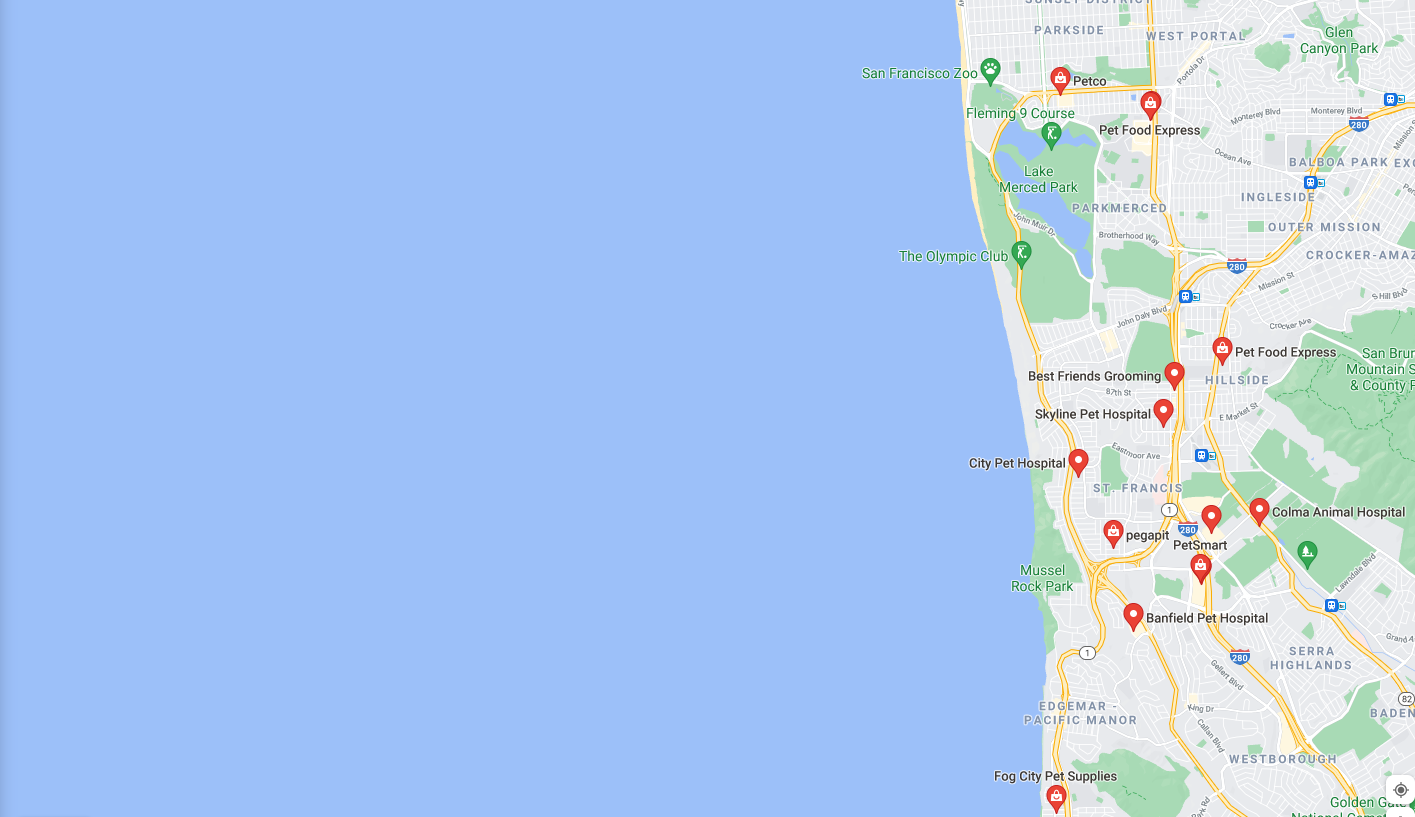
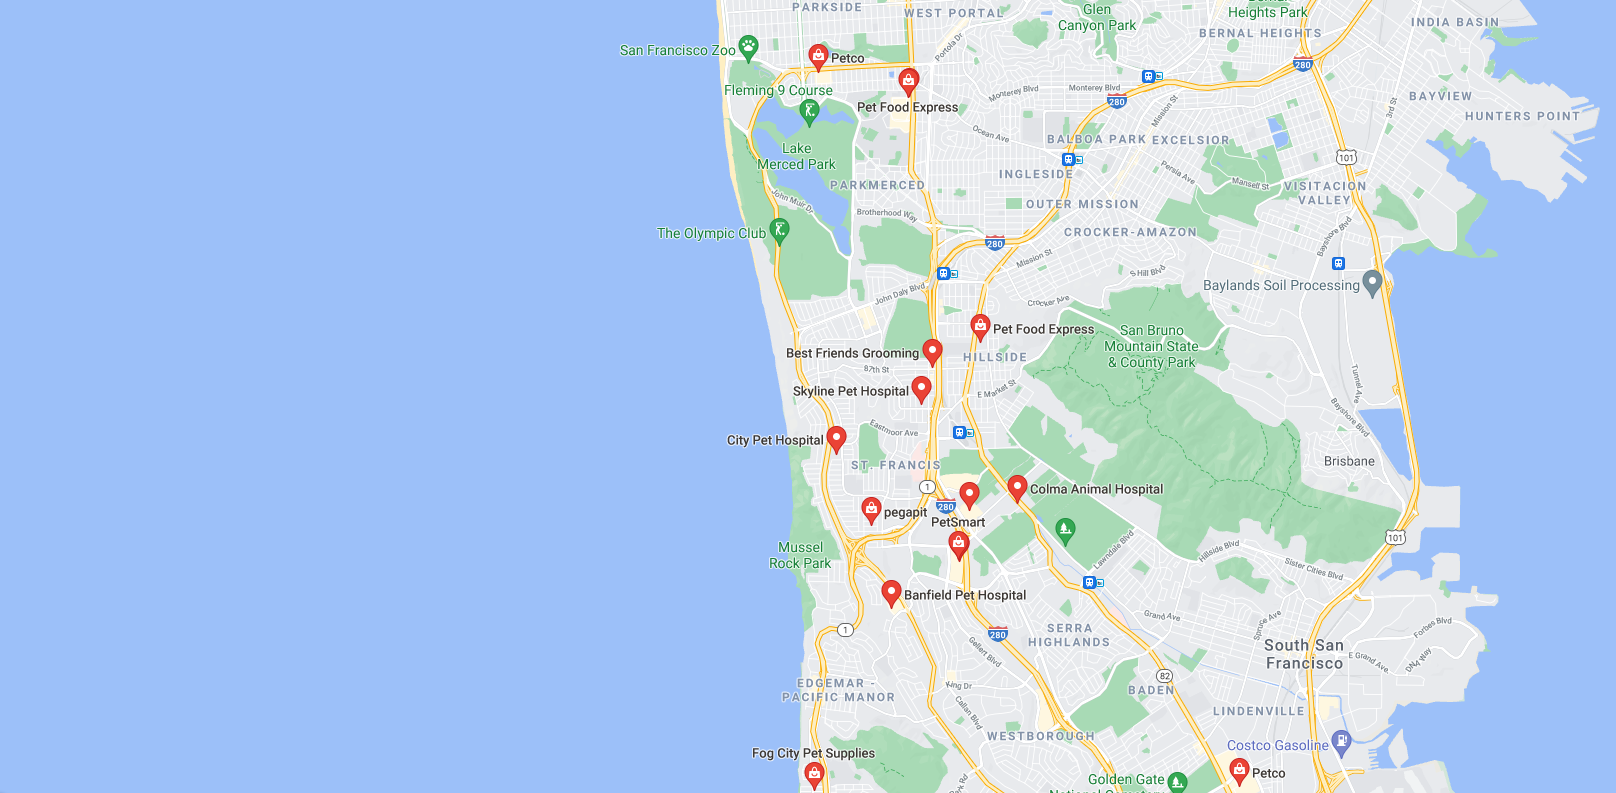
updated hero container

diff --git a/application/frontend/src/components/Hero/HeroContainer.module.css b/application/frontend/src/components/Hero/HeroContainer.module.css
@@ -23,8 +23,8 @@
 .left-side-dog{
     height: 576px;
     float: right;
-    margin-right: 50px;
     grid-area: 1 / 2 / span 2 / span 1;
+    border-right: 30px solid var(--primary-clr);
 }
 
 .right-side{
@@ -32,6 +32,7 @@
     display: grid;
     grid-template-rows: 30% auto auto auto 30%;
     grid-template-columns: auto;
+    background-color: var(--primary-clr);
 }
 
 .right-side-dog{
@@ -41,21 +42,27 @@
 }
 
 .right-side-text {
-    color:var(--ff-primary);
+    font-family: var(--ff-primary);
     display: block;
     grid-row: 2 / span 1;
+    color: var(--accent-color-1);
+    font-weight: 600;
+    font-size: var(--hero);
 }
 
 .right-side-subtext {
     /* color:rgba(29, 10, 10, 0.9); */
-    color: #7F9489;
+    padding: 15px 0 15px 0;
     grid-row: 3 /span 1;
+    color: var(--accent-color-2);
+    font-size: var(--h2);
+    font-family: var(--ff-secondary);
 }
 
 .signup-button {
     width: 195px;
     height: 62px;
-    background-color: var(--primary-clr, red);
+    background-color: var(--accent-color-2);
     color: var(--reversed-txt-clr);
     box-shadow: var(--elevation-1);
     border: none;
@@ -68,13 +75,13 @@
 }
 
 .find-friend-button {
-    margin-left: 50px;
+    margin: 20px 0px  0px 50px;
     width: 195px;
     height: 62px;
     cursor: default;
     background-color: var(--reversed-txt-clr);
-    color: var(--primary-clr);
-    border: 2px solid var(--primary-clr);
+    color: var(--accent-color-2);
+    border: 2px solid var(--accent-color-2);
     border-radius: 7.5px;
     cursor: pointer;
 }

diff --git a/application/frontend/src/components/Hero/HeroContainer.js b/application/frontend/src/components/Hero/HeroContainer.js
@@ -6,7 +6,7 @@ import styles from './HeroContainer.module.css';
 import CallToActionButton from '../Buttons/CallToActionButton'
 
 //Import Images
-import DogOwnerImage from '../../images/Third Party Images/undraw_Modern_woman_lxh7 1.svg'
+import DogOwnerImage from '../../images/Third Party Images/undraw_Modern_woman_lxh7.svg'
 import CatOwnerImage from '../../images/Third Party Images/undraw_chilling_8tii 1.svg'
 
 function HeroContainer() {
@@ -30,8 +30,8 @@ function HeroContainer() {
       </div>
       <div className={styles['right-side']}>
 
-        <div className={styles['right-side-text']}><h1>The Social Network for your furry (or not so furry) friends</h1></div>
-        <div className={styles['right-side-subtext']}><h2>Sign Up or Search for a Pet to Get Started</h2></div>
+        <div className={styles['right-side-text']}>The Social Network for your furry (or not so furry) friends</div>
+        <div className={styles['right-side-subtext']}>Sign Up or Search for a Pet to Get Started</div>
         <div className={styles['button-container']}>
           <NavLink to="/account-type">
             <button className={styles['signup-button']}><span><h3>Sign Up</h3></span></button>

diff --git a/application/frontend/src/components/SiteDemo2/SiteDemo2.module.css b/application/frontend/src/components/SiteDemo2/SiteDemo2.module.css
@@ -4,6 +4,7 @@
     height: 576px;
     border: none;
     background-color: var(--site-preview-2-container-color);
+    justify-content: space-between;
   }
   .site-demo2-box1 {
     width: 30%;
@@ -12,9 +13,7 @@
   .site-demo2-box2 {
     max-width: 70%;
     height: 576px;
-    float: right;
-    right:0%;
-    position: absolute;
+    
   }
   
 .site-demo2-text {
@@ -36,7 +35,7 @@
     left: 7.36%;
     width: 195px;
     height: 62px;
-    background-color: var(--primary-clr, red);
+    background-color: var(--primary-clr);
     color: var(--reversed-txt-clr);
     box-shadow: var(--elevation-1);
     border: none;

diff --git a/application/frontend/src/components/SiteDemo2/SiteDemo2.js b/application/frontend/src/components/SiteDemo2/SiteDemo2.js
@@ -1,7 +1,6 @@
-import React,{useState} from "react";
+import {useState} from "react";
 
-import testImg from '../../images/testImages/test.jpg';
-import mapSearchDemo from '../../images/testImages/homepageSideDemo2.png'
+import MapSearchPreview from '../../images/MapSearchPreview.png'
 
 import styles from './SiteDemo2.module.css';
 
@@ -26,7 +25,7 @@ function SiteDemo2() {
             <span><h3>{text}</h3></span>
         </button>
       </div>
-      <img className={styles['site-demo2-box2']} src={mapSearchDemo} />
+      <img className={styles['site-demo2-box2']} src={MapSearchPreview} />
     </div>
   );
 }

diff --git a/application/frontend/src/index.css b/application/frontend/src/index.css
@@ -20,7 +20,7 @@ html,body {
   --primary-clr: #24949a;
   --inset-txt-field-clr: #FCF8F8;
   --site-preview-1-container-color: #C6A5A5;
-  --site-preview-2-container-color:  #a0bcf7;
+  --site-preview-2-container-color:  #9cc0f9;
   --cancel-delete-exit-color: #EB1B1B;
   --accent-color-2: #131b49;
   --accent-color-1: #feebde;
@@ -50,6 +50,7 @@ html,body {
   --elevation-10: 0 24px 38px 3px rgba(0,0,0,0.14), 0 9px 46px 8px rgba(0,0,0,0.12), 0 11px 15px -7px rgba(0,0,0,0.20); 
   
   /*font sizes */
+  --hero: 2.5em;
   --h1: 2em;
   --h2: 1.5em;
   --h3: 1.17em;
